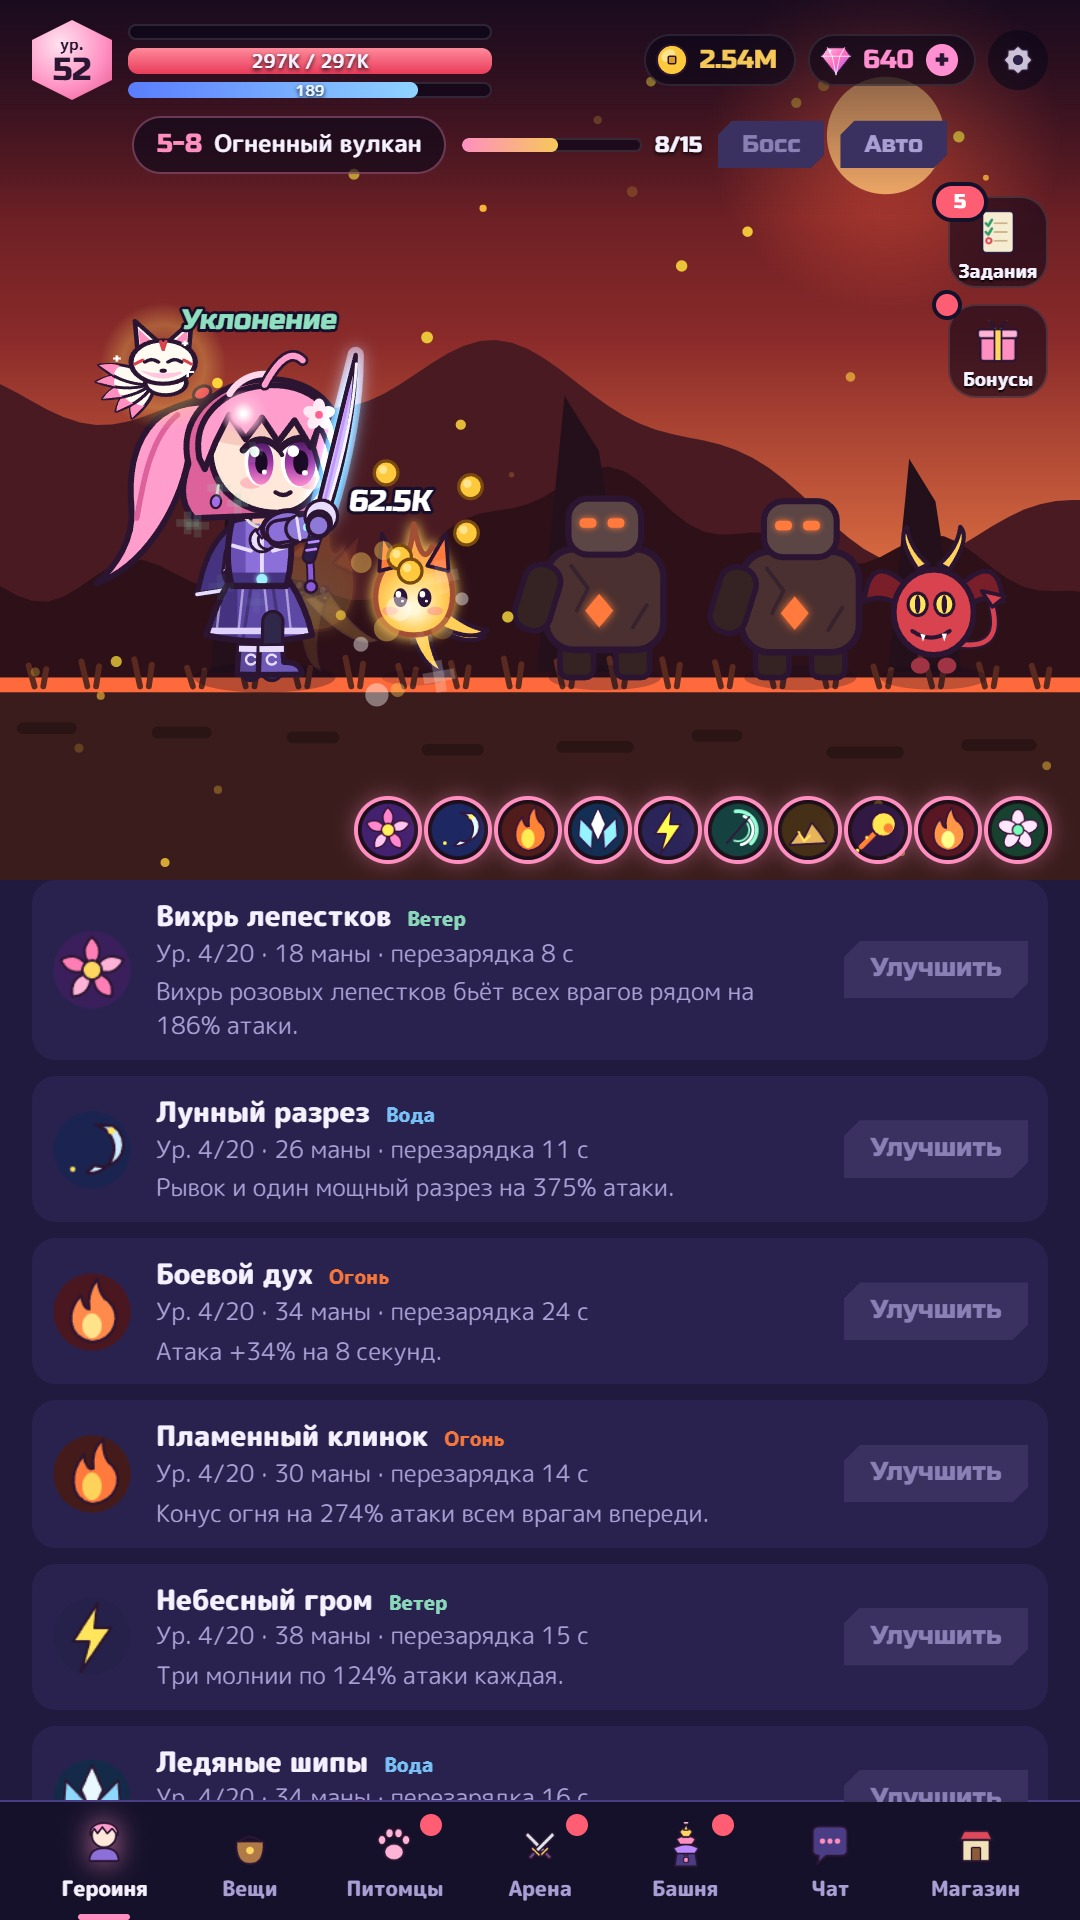
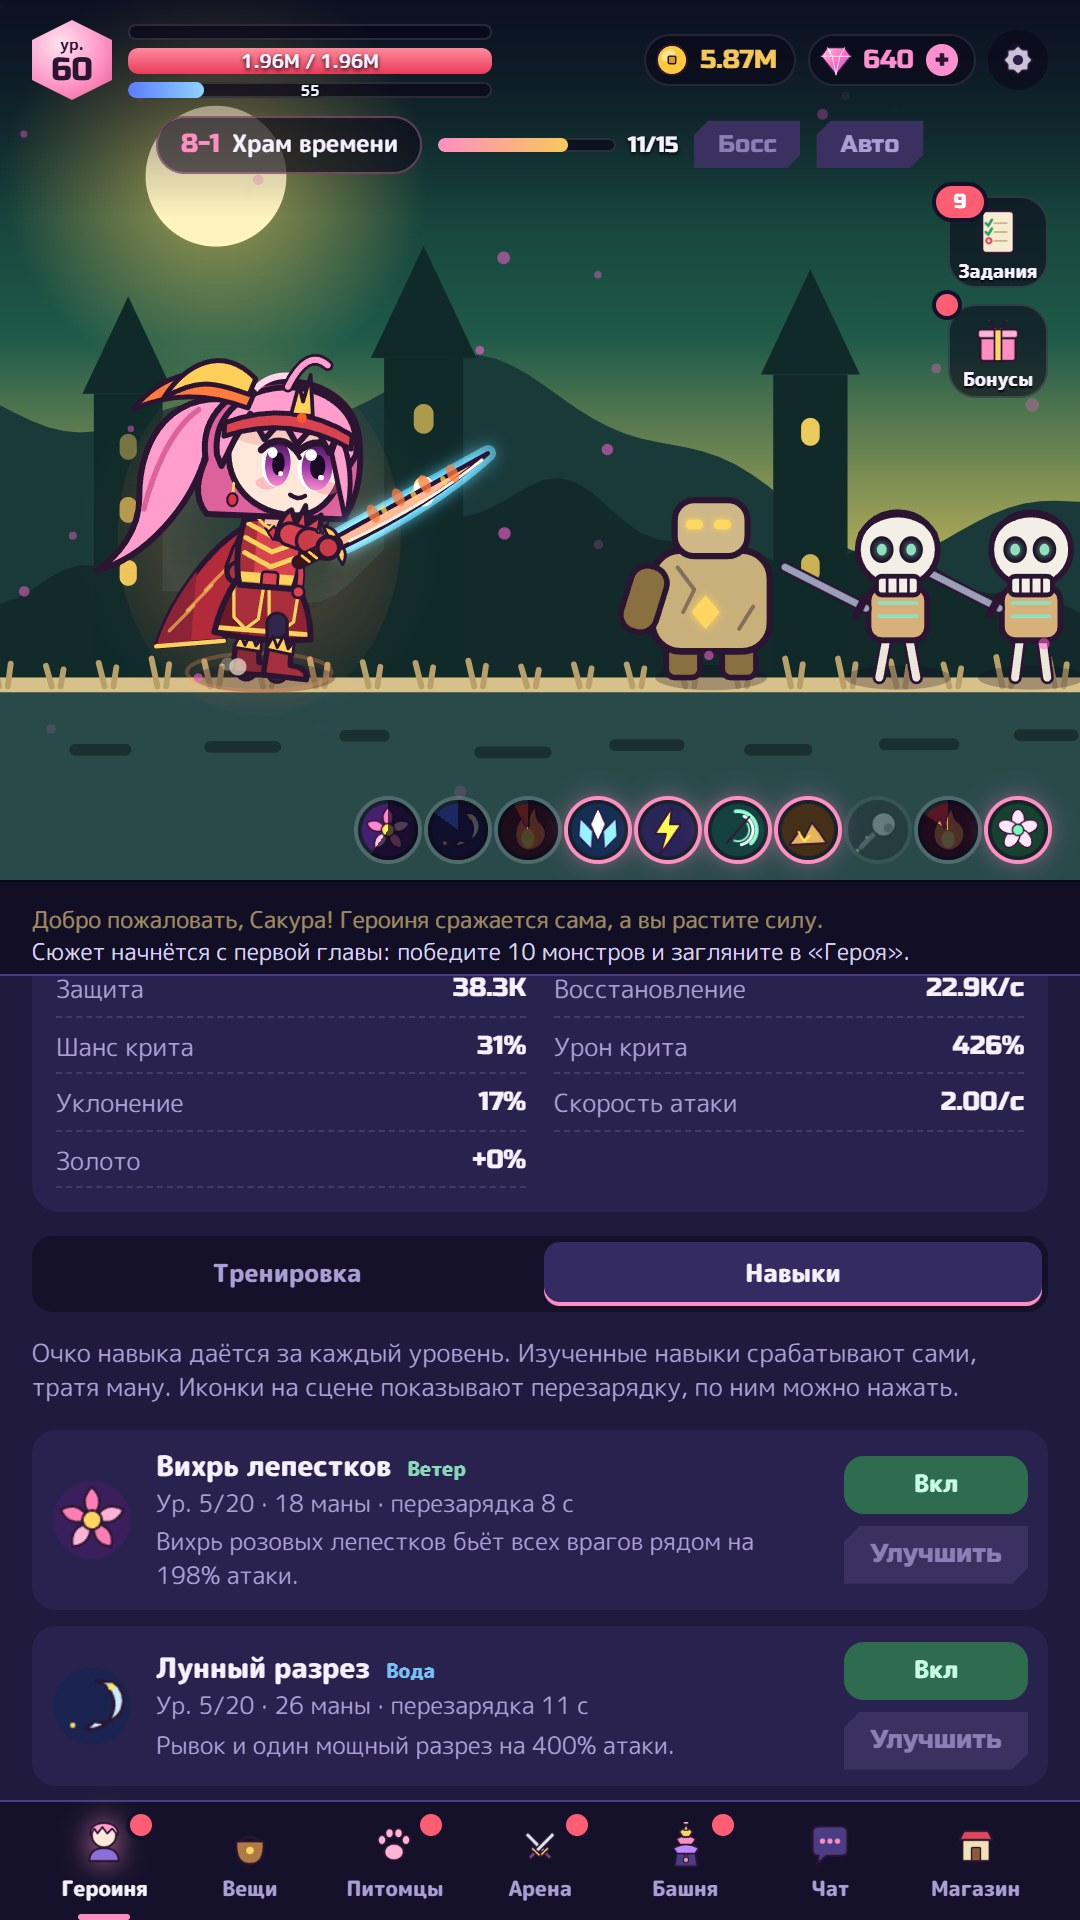
Промо-кит: скриншоты Ночи фонарей и недели, английская обложка
- screen-lantern.jpg и screen-weekly.jpg 1080x1920
- cover-en-800x470.jpg с английским названием
- Обновлены списки скриншотов в описаниях

diff --git a/promo/README.md b/promo/README.md
@@ -17,6 +17,9 @@
 | `screen-tower.jpg` | 1080×1920 | Скриншот 4: башня |
 | `screen-world.jpg` | 1080×1920 | Скриншот 5: мировой босс |
 | `screen-skills.jpg` | 1080×1920 | Скриншот 6: умения со стихиями |
+| `screen-lantern.jpg` | 1080×1920 | Скриншот 7: «Ночь фонарей» |
+| `screen-weekly.jpg` | 1080×1920 | Скриншот 8: недельные задания |
+| `cover-en-800x470.jpg` | 800×470 | Обложка с английским названием |
 | `description.md` | — | Текст карточки для Яндекс Игр |
 | `description.en.md` | — | English store listing |
 

diff --git a/promo/store/description.en.md b/promo/store/description.en.md
@@ -44,6 +44,8 @@ Anime idle RPG: your heroine fights on her own while you grow stronger. Lineage-
 4. `screen-tower.jpg` — tower
 5. `screen-world.jpg` — world boss
 6. `screen-skills.jpg` — elemental skills
+7. `screen-lantern.jpg` — Lantern Night event
+8. `screen-weekly.jpg` — weekly quests
 
 ## Monetization
 
